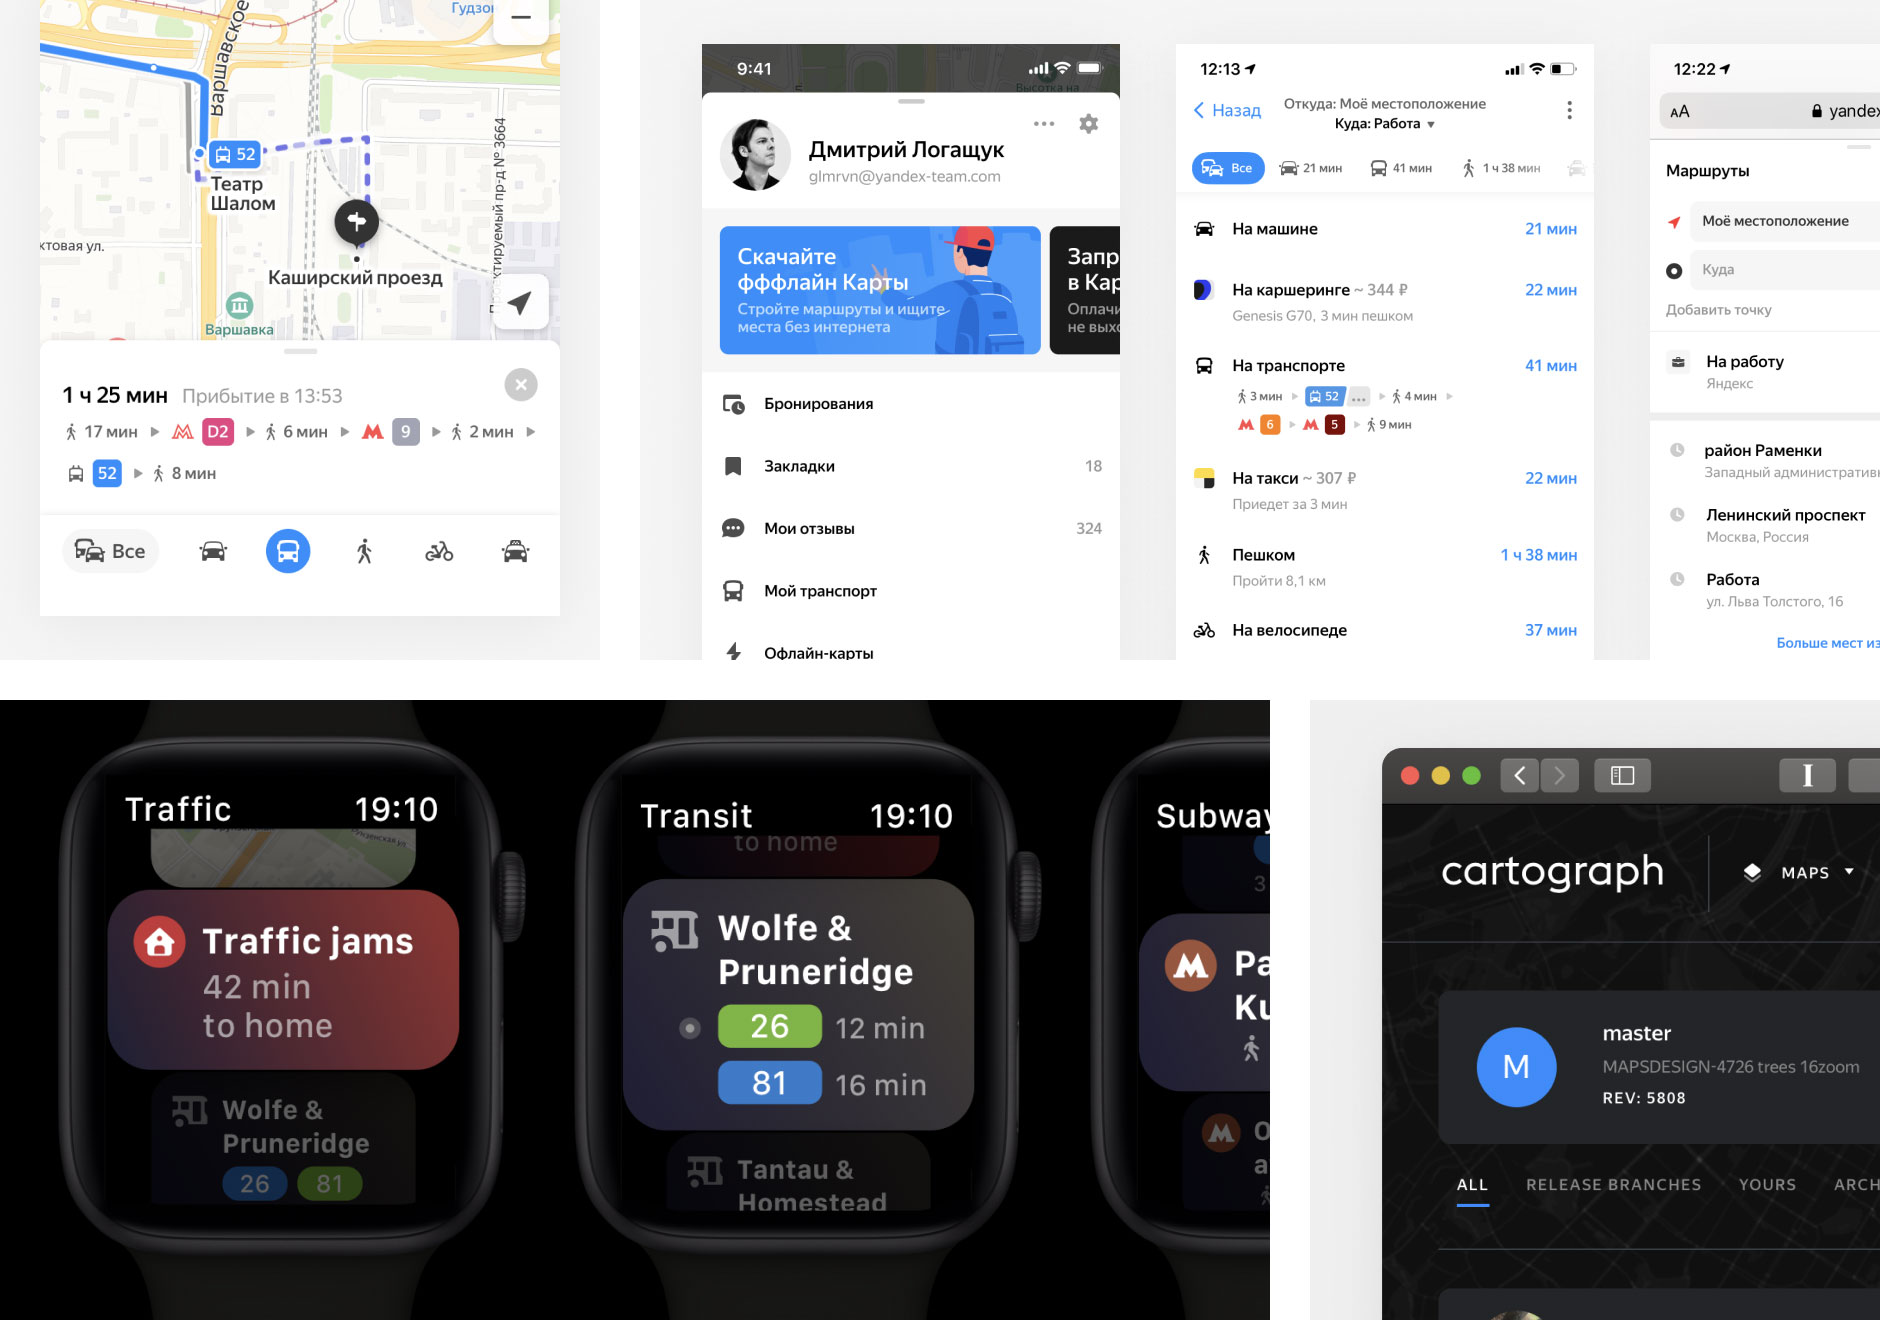
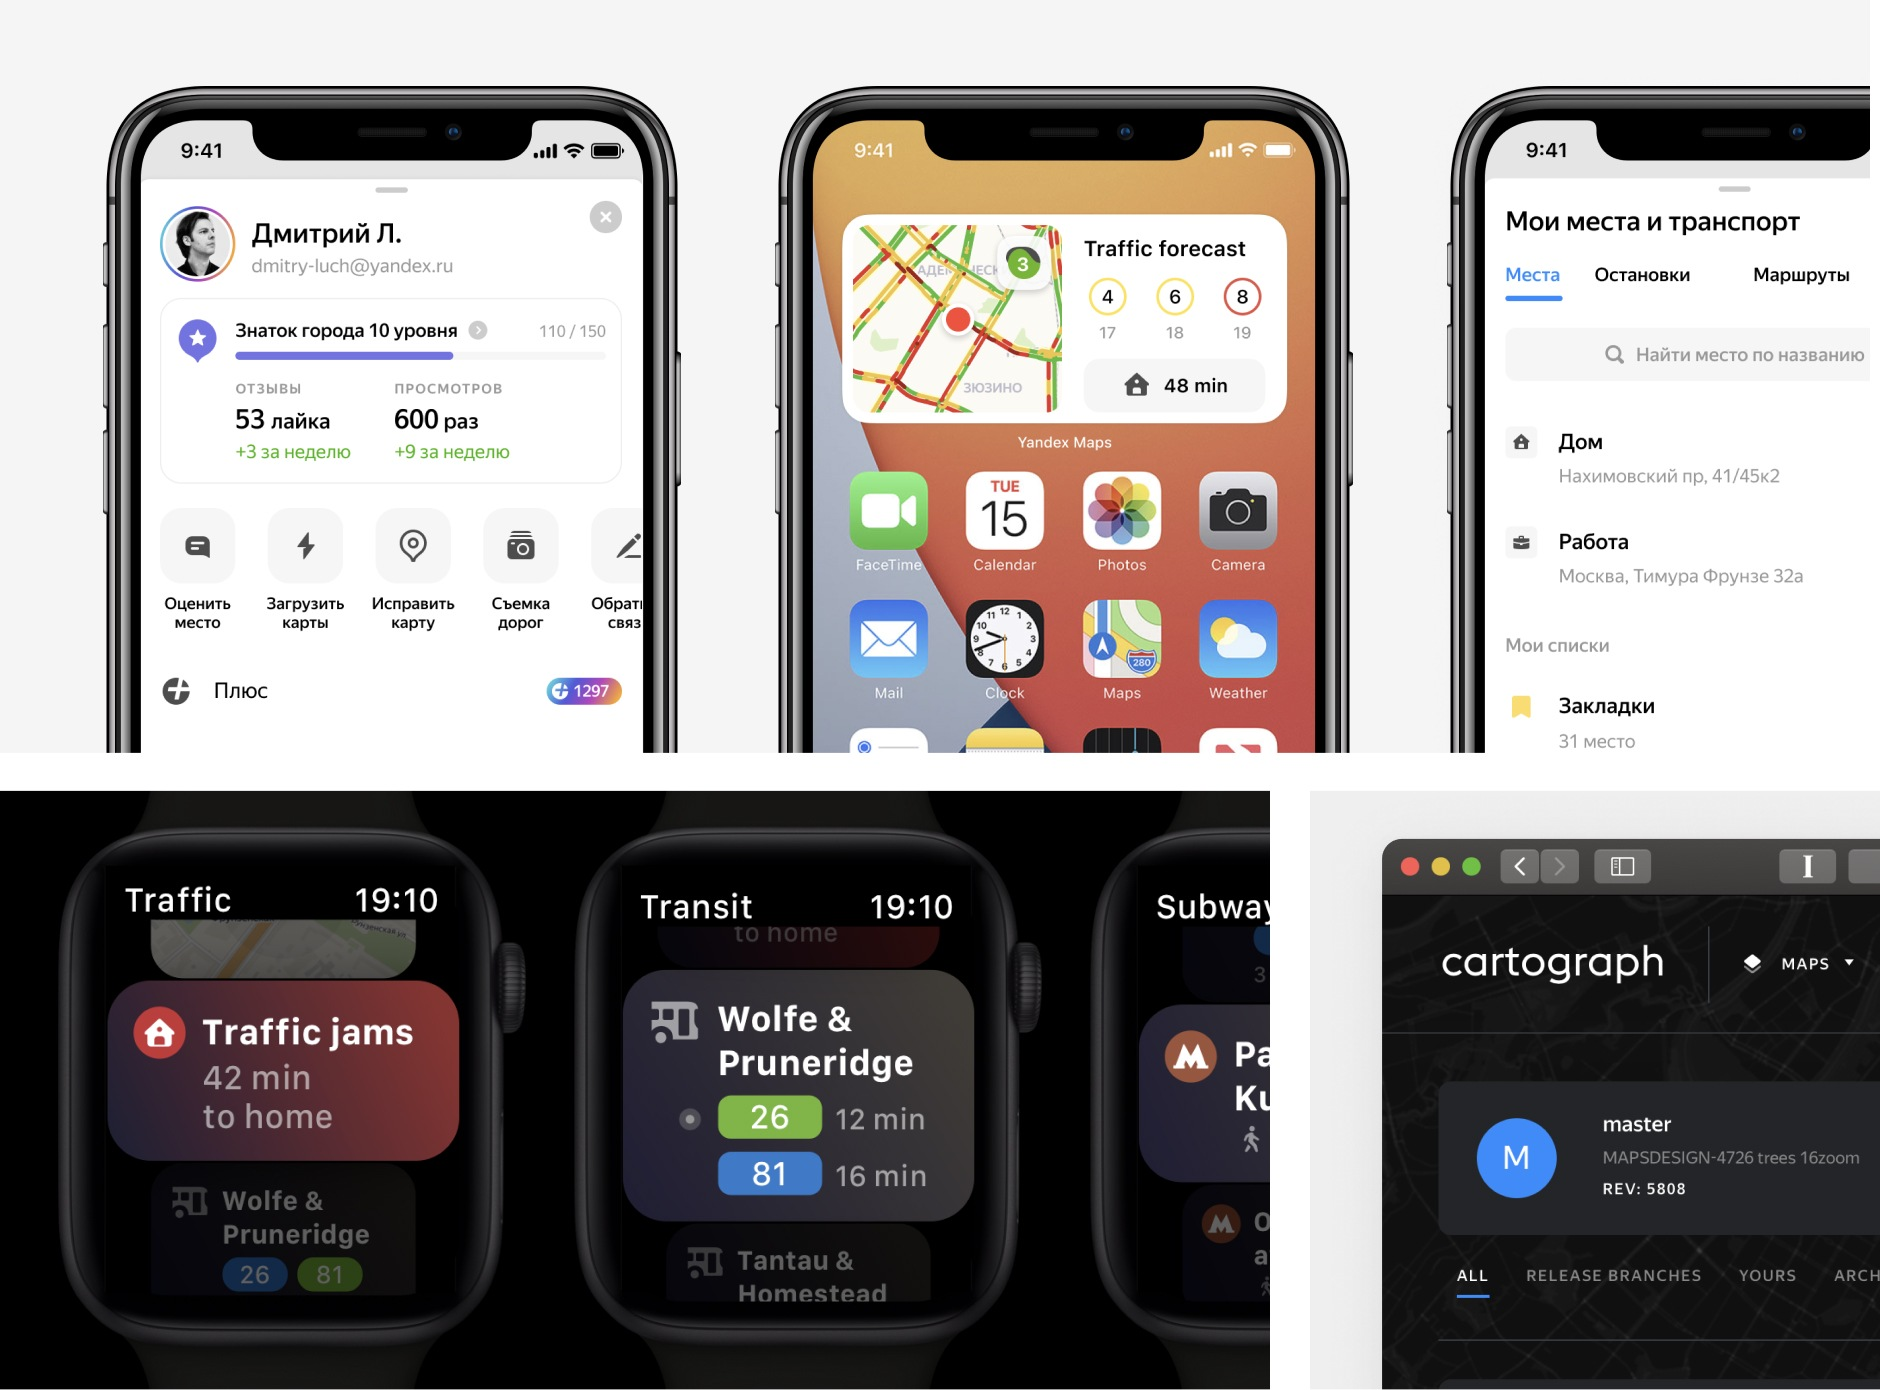
Replaced yndx image, Added Linkedin, Added link in Header

diff --git a/experience.html b/experience.html
@@ -102,7 +102,7 @@
             <p><span class="black-text">Service helps</span> to prepare for product design or product manager interview. It is a tool to train to answer to right questions showing randomly.</p>
             <p><span class="black-text">I analyzed</span> feedback to people who interviewed companies like Apple, Google, Facebook, etc. Right now, service has 110 product designers and 80 product manager questions.</p>
             <p>
-                <span class="black-text">Link: </span><a href="https://right-question.com" target="_blank">right-question.com</a>
+                <span class="black-text">Link: </span><a href="https://glmrvn.github.io/Right-question/" target="_blank">Right-question</a>
                 <span style="white-space: nowrap;"><svg width="16" height="16" viewBox="0 0 12 12" xmlns="http://www.w3.org/2000/svg"><path d="M3.5 3C3.22386 3 3 3.22386 3 3.5C3 3.77614 3.22386 4 3.5 4V3ZM8.5 3.5H9C9 3.22386 8.77614 3 8.5 3V3.5ZM8 8.5C8 8.77614 8.22386 9 8.5 9C8.77614 9 9 8.77614 9 8.5H8ZM2.64645 8.64645C2.45118 8.84171 2.45118 9.15829 2.64645 9.35355C2.84171 9.54882 3.15829 9.54882 3.35355 9.35355L2.64645 8.64645ZM3.5 4H8.5V3H3.5V4ZM8 3.5V8.5H9V3.5H8ZM8.14645 3.14645L2.64645 8.64645L3.35355 9.35355L8.85355 3.85355L8.14645 3.14645Z" fill="#aaa"></path></svg></span>
             </p>
             <img src="img/cases/right-question-case.jpg" alt="">
@@ -164,9 +164,9 @@
         <a href="https://dribbble.com/glmrvn" class="link" target="_blank">dribbble</a>
         <a href="https://github.com/glmrvn" class="link" target="_blank">github</a>
         <a href="https://www.figma.com/@903146" class="link" target="_blank">figma</a>
+        <a href="https://www.linkedin.com/in/alex-dyakov" class="link" target="_blank">in</a>
         <a href="https://medium.com/@glmrvn" class="link" target="_blank">medium</a>
         <a href="https://www.facebook.com/glmrvn" class="link" target="_blank">fb</a>
-        <!-- <a href="https://www.linkedin.com/in/alex-dyakov" class="link" target="_blank">linkedin</a> -->
     </div>
 </body>
 

diff --git a/index.html b/index.html
@@ -36,13 +36,14 @@
     <div class="wrap">
         <div class="about">
             <h1><span class="black-text">Hi there. </span>I’m a Senior Product Designer from Moscow. I love engaging user-friendly interfaces for any platform.</br>Feel free to contact me.</h1>
+            <a href="experience.html" class="black-text">More about my work</a>
         </div>
 
         <!-- Images -->
         <div class="work-case">
             <img src="img/cases/open-bank-case.jpg" alt="">
-            <img src="img/cases/concept-1-case.jpg" alt="">
             <img src="img/cases/yandx-case.jpg" alt="">
+            <img src="img/cases/concept-1-case.jpg" alt="">
             <img src="img/cases/concept-2-case.jpg" alt="">
             <img src="img/cases/voltmobi-case.jpg" alt="">
             <img src="img/cases/concept-3-case.jpg" alt="">
@@ -70,9 +71,9 @@
         <a href="https://dribbble.com/glmrvn" class="link" target="_blank">dribbble</a>
         <a href="https://github.com/glmrvn" class="link" target="_blank">github</a>
         <a href="https://www.figma.com/@903146" class="link" target="_blank">figma</a>
+        <a href="https://www.linkedin.com/in/alex-dyakov" class="link" target="_blank">in</a>
         <a href="https://medium.com/@glmrvn" class="link" target="_blank">medium</a>
         <a href="https://www.facebook.com/glmrvn" class="link" target="_blank">fb</a>
-        <!-- <a href="https://www.linkedin.com/in/alex-dyakov" class="link" target="_blank">linkedin</a> -->
     </div>
 
 </body>

diff --git a/style/style.css b/style/style.css
@@ -31,6 +31,7 @@ a {
 a:hover { color:black; }
 
 .black-text { color: black; }
+a.black-text:hover { text-decoration: underline; }
 
 /* Menu */
 .top {
@@ -45,7 +46,7 @@ a:hover { color:black; }
 
 /* About */
 .about {
-    margin-top: 240px;
+    margin-top: 200px;
     width: 720px;
 }
 
